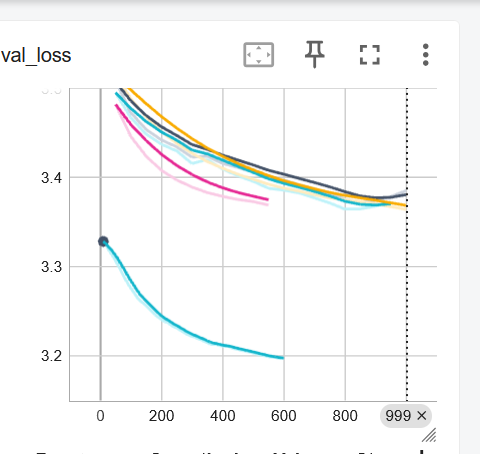
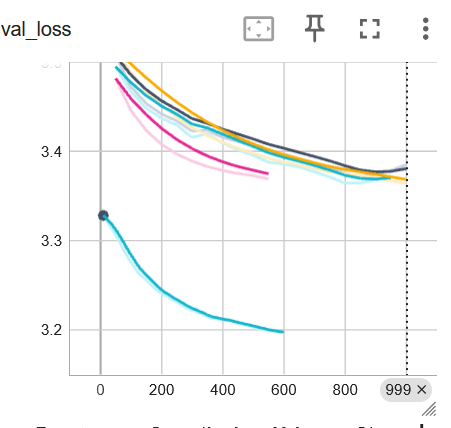
last

diff --git a/custom_code/results/results.md b/custom_code/results/results.md
@@ -1,6 +1,9 @@
+Below is the validation loss during training the Order Model
+
 ![alt text](val_loss_order_model.png)
 
 
-Some text
+
+For a given day and stock (AMZ 12-09-25) the validation loss of the trained Order Model is *3.3*, below is the validation loss (multiple trials with different hyper params value) during training the Ensemble Model (same day/stock AMZ 12-09-25)
 
 ![validation loss of the Ensemble model](val_loss_ensemble_model.png)
